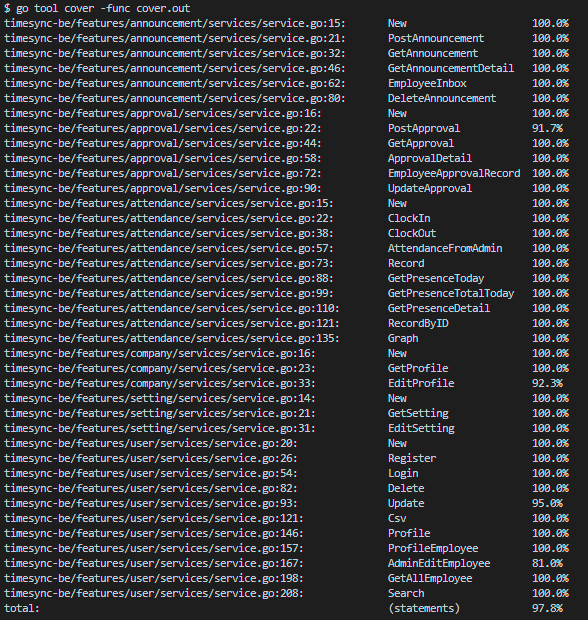
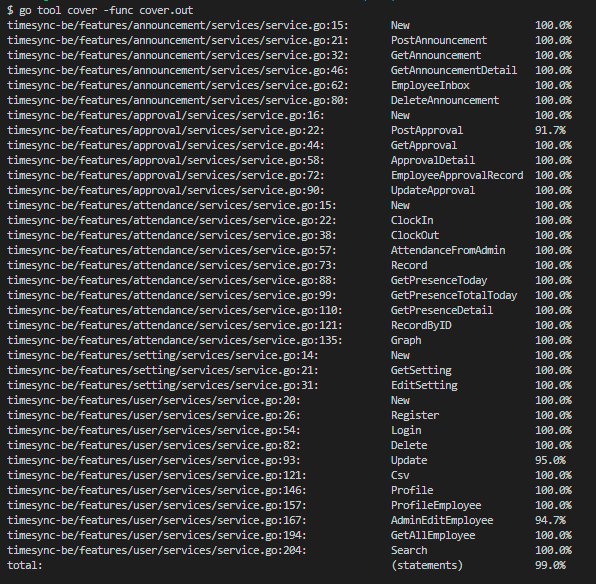
fix bug unit testing

diff --git a/features/user/services/service_test.go b/features/user/services/service_test.go
@@ -290,19 +290,6 @@ func TestAdminEditEmploye(t *testing.T) {
 		assert.Equal(t, resData.ID, res.ID)
 		repo.AssertExpectations(t)
 	})
-
-	t.Run("fail updating account", func(t *testing.T) {
-		repo.On("UpdateByAdmin", uint(1), uint(1), inputData).Return(user.Core{}, errors.New("query error,update fail")).Once()
-		srv := New(repo)
-		_, token := helper.GenerateToken(1)
-		pToken := token.(*jwt.Token)
-		pToken.Valid = true
-		res, err := srv.AdminEditEmployee(pToken, uint(1), *imageTrueCnv, inputData)
-		assert.NotNil(t, err)
-		assert.ErrorContains(t, err, "registered")
-		assert.Equal(t, user.Core{}, res)
-		repo.AssertExpectations(t)
-	})
 	t.Run("access denied", func(t *testing.T) {
 		repo.On("UpdateByAdmin", uint(1), uint(1), inputData).Return(user.Core{}, errors.New("access denied")).Once()
 		srv := New(repo)
@@ -315,6 +302,19 @@ func TestAdminEditEmploye(t *testing.T) {
 		assert.Equal(t, user.Core{}, res)
 		repo.AssertExpectations(t)
 	})
+	t.Run("fail updating account", func(t *testing.T) {
+		repo.On("UpdateByAdmin", uint(1), uint(1), inputData).Return(user.Core{}, errors.New("user not found")).Once()
+		srv := New(repo)
+		_, token := helper.GenerateToken(1)
+		pToken := token.(*jwt.Token)
+		pToken.Valid = true
+		res, err := srv.AdminEditEmployee(pToken, uint(1), *imageTrueCnv, inputData)
+		assert.NotNil(t, err)
+		assert.ErrorContains(t, err, "account not registered")
+		assert.Equal(t, user.Core{}, res)
+		repo.AssertExpectations(t)
+	})
+
 	t.Run("email duplicated", func(t *testing.T) {
 		repo.On("UpdateByAdmin", uint(1), uint(1), inputData).Return(user.Core{}, errors.New("email duplicated")).Once()
 		srv := New(repo)
@@ -327,6 +327,7 @@ func TestAdminEditEmploye(t *testing.T) {
 		assert.Equal(t, user.Core{}, res)
 		repo.AssertExpectations(t)
 	})
+
 	t.Run("invalid file validation", func(t *testing.T) {
 		filePathFake := filepath.Join("..", "..", "..", "TimeSyncUnitTesting.csv")
 		headerFake, err := helper.UnitTestingUploadFileMock(filePathFake)

diff --git a/features/user/services/service.go b/features/user/services/service.go
@@ -166,10 +166,8 @@ func (uuc *userUseCase) ProfileEmployee(userID uint) (user.Core, error) {
 // AdminEditEmployee implements user.UserService
 func (uuc *userUseCase) AdminEditEmployee(token interface{}, employeeID uint, fileData multipart.FileHeader, updateData user.Core) (user.Core, error) {
 	adminID := helper.ExtractToken(token)
-	if updateData.Password != "" {
-		hashed := helper.GeneratePassword(updateData.Password)
-		updateData.Password = string(hashed)
-	}
+	hashed := helper.GeneratePassword(updateData.Password)
+	updateData.Password = hashed
 	if fileData.Size != 0 {
 		res, err := helper.GetUrlImagesFromAWS(fileData)
 		if err != nil {
@@ -180,14 +178,12 @@ func (uuc *userUseCase) AdminEditEmployee(token interface{}, employeeID uint, fi
 	res, err := uuc.qry.UpdateByAdmin(uint(adminID), employeeID, updateData)
 	if err != nil {
 		msg := ""
-		if strings.Contains(err.Error(), "not found") {
-			msg = "data not found"
+		if strings.Contains(err.Error(), "access") {
+			msg = "access denied"
+		} else if strings.Contains(err.Error(), "not found") {
+			msg = "account not registered"
 		} else if strings.Contains(err.Error(), "email") {
 			msg = "email duplicated"
-		} else if strings.Contains(err.Error(), "access") {
-			msg = "access denied"
-		} else {
-			msg = "account not registered"
 		}
 		return user.Core{}, errors.New(msg)
 	}
